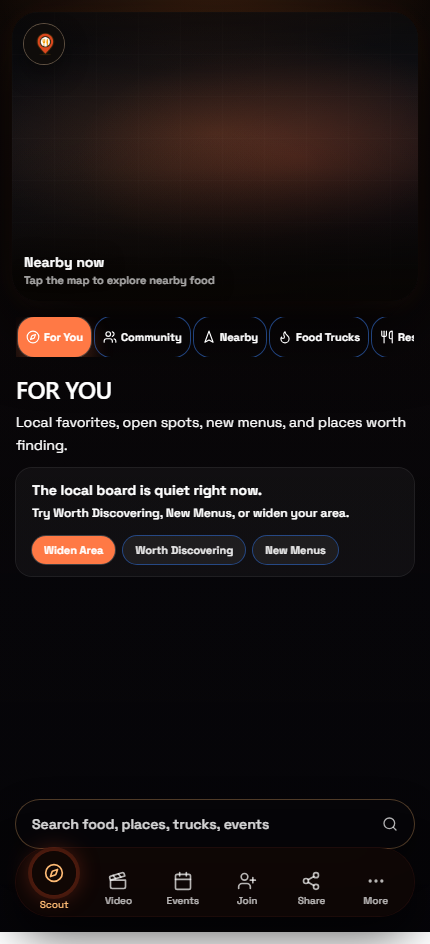
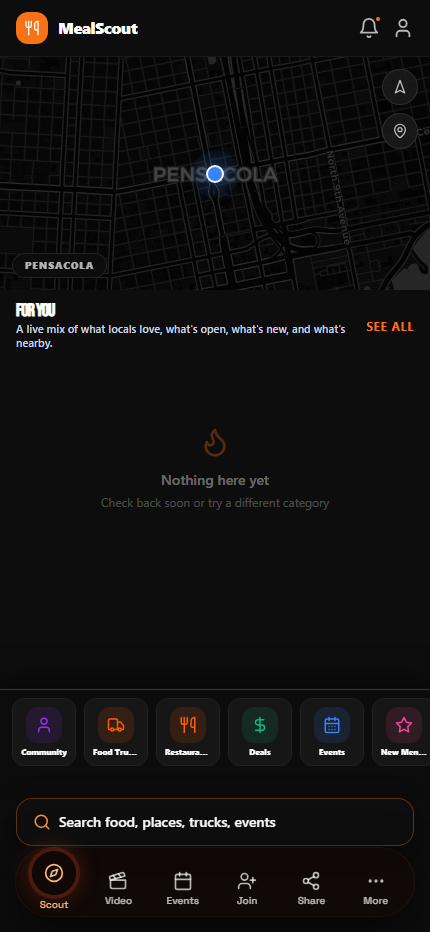
Fix Scout bottom control stack at mobile widths

diff --git a/client/src/pages/scout-prototype.tsx b/client/src/pages/scout-prototype.tsx
@@ -543,57 +543,53 @@ export default function ScoutPrototype() {
         </div>
       </div>
 
-
-
-      {/* ── Explore + Search Bar — fixed above global nav ── */}
-      <div className="fixed left-0 right-0 z-[1050] flex flex-col gap-1.5 pointer-events-none" style={{ bottom: "calc(env(safe-area-inset-bottom) + 6rem)" }}>
-        {/* Explore Tiles */}
-        <div className="bg-[#0d0d0d]/95 backdrop-blur-xl border-t border-white/8 shadow-[0_-8px_24px_rgba(0,0,0,0.5)] pointer-events-auto">
-          <div className="flex gap-1.5 overflow-x-auto no-scrollbar px-3 pt-1 pb-1.5">
-            {EXPLORE_TILES.map(tile => {
-              const count = tileCounts[tile.id as keyof typeof tileCounts] || tile.count;
-              return (
-                <button
-                  key={tile.id}
-                  onClick={() => setActiveScene(tile.id)}
-                  className={`shrink-0 flex flex-col items-center text-center rounded-md px-1.5 py-1 border transition-all duration-200 w-[56px] ${
-                    activeScene === tile.id
-                      ? "bg-[#1e1e1e] border-orange-500/40"
-                      : "bg-[#161616] border-white/5 hover:border-orange-500/20"
-                  }`}
-                >
-                  <div className="w-6 h-6 rounded-md flex items-center justify-center mb-0.5" style={{ backgroundColor: `${tile.color}20` }}>
-                    <span className="scale-[0.65]" style={{ color: tile.color }}>{tile.icon}</span>
-                  </div>
-                  <span className="text-[6px] font-black text-white leading-tight w-full truncate">{tile.label}</span>
-                  {count && <span className="text-[6px] font-bold mt-0.5" style={{ color: tile.color }}>{count}</span>}
-                </button>
-              );
-            })}
-          </div>
-        </div>
-
-        {/* Search Bar */}
-        <div className="px-4 pointer-events-auto pb-1">
-          <Link href="/search" className="flex items-center gap-3 px-4 h-9 bg-[#1a1a1a]/90 backdrop-blur-xl rounded-full border border-white/10 shadow-2xl group transition-all hover:bg-[#222]/90 hover:border-orange-500/30">
-            <div className="w-4 h-4 flex items-center justify-center">
-              <div className="w-3.5 h-3.5 rounded-full border-2 border-orange-500/40 relative">
-                <div className="absolute top-1 left-1 w-0.5 h-0.5 bg-orange-500/60 rounded-full animate-pulse" />
-              </div>
-            </div>
-            <span className="text-[11px] font-medium text-white/40 group-hover:text-white/60 transition-colors truncate">
-              Scout it — tacos near me, live music, food trucks...
-            </span>
-            <div className="ml-auto flex items-center gap-2">
-              <div className="w-px h-3 bg-white/10" />
-              <Tag size={12} className="text-orange-500/60" />
-            </div>
-          </Link>
+      {/* ── Explore the Scene — fixed above search dock ── */}
+      <div
+        className="fixed left-0 right-0 z-[1050] bg-[#0d0d0d]/95 backdrop-blur-xl border-t border-white/8 shadow-[0_-8px_24px_rgba(0,0,0,0.5)]"
+        style={{ bottom: "calc(env(safe-area-inset-bottom) + 9.85rem)" }}
+      >
+        <div className="flex gap-2 overflow-x-auto no-scrollbar px-3 pt-2 pb-2">
+          {EXPLORE_TILES.map(tile => {
+            const count = tileCounts[tile.id as keyof typeof tileCounts] || tile.count;
+            return (
+              <button
+                key={tile.id}
+                onClick={() => setActiveScene(tile.id)}
+                className={`shrink-0 flex flex-col items-center text-center rounded-xl px-2 py-2 border transition-all duration-200 w-[64px] ${
+                  activeScene === tile.id
+                    ? "bg-[#1e1e1e] border-orange-500/40"
+                    : "bg-[#161616] border-white/5 hover:border-orange-500/20"
+                }`}
+              >
+                <div className="w-9 h-9 rounded-xl flex items-center justify-center mb-1" style={{ backgroundColor: `${tile.color}20` }}>
+                  <span style={{ color: tile.color }}>{tile.icon}</span>
+                </div>
+                <span className="text-[8px] font-black text-white leading-tight w-full truncate">{tile.label}</span>
+                {count && <span className="text-[8px] font-bold mt-0.5" style={{ color: tile.color }}>{count}</span>}
+              </button>
+            );
+          })}
         </div>
       </div>
 
+      {/* ── Search Dock — fixed directly above global nav ── */}
+      <div
+        className="fixed left-0 right-0 z-[1060] px-4"
+        style={{ bottom: "calc(env(safe-area-inset-bottom) + 5.35rem)" }}
+      >
+        <button
+          type="button"
+          onClick={() => navigate("/search")}
+          className="mx-auto flex h-12 w-full max-w-[620px] items-center gap-2 rounded-2xl border border-orange-500/35 bg-[#0f0f0f]/95 px-4 text-left text-sm font-semibold text-white/88 shadow-[0_10px_30px_rgba(0,0,0,0.45)] backdrop-blur-xl"
+          aria-label="Search food, places, trucks, events"
+        >
+          <Search size={18} className="text-orange-400 shrink-0" />
+          <span className="truncate">Search food, places, trucks, events</span>
+        </button>
+      </div>
+
       {/* ── Feed ── */}
-      <div className="flex-1 overflow-y-auto px-4 pb-[260px] no-scrollbar">
+      <div className="flex-1 overflow-y-auto px-4 pb-[320px] no-scrollbar">
         {/* Section header */}
         <div className="flex items-center justify-between mb-3 mt-3">
           <div>
